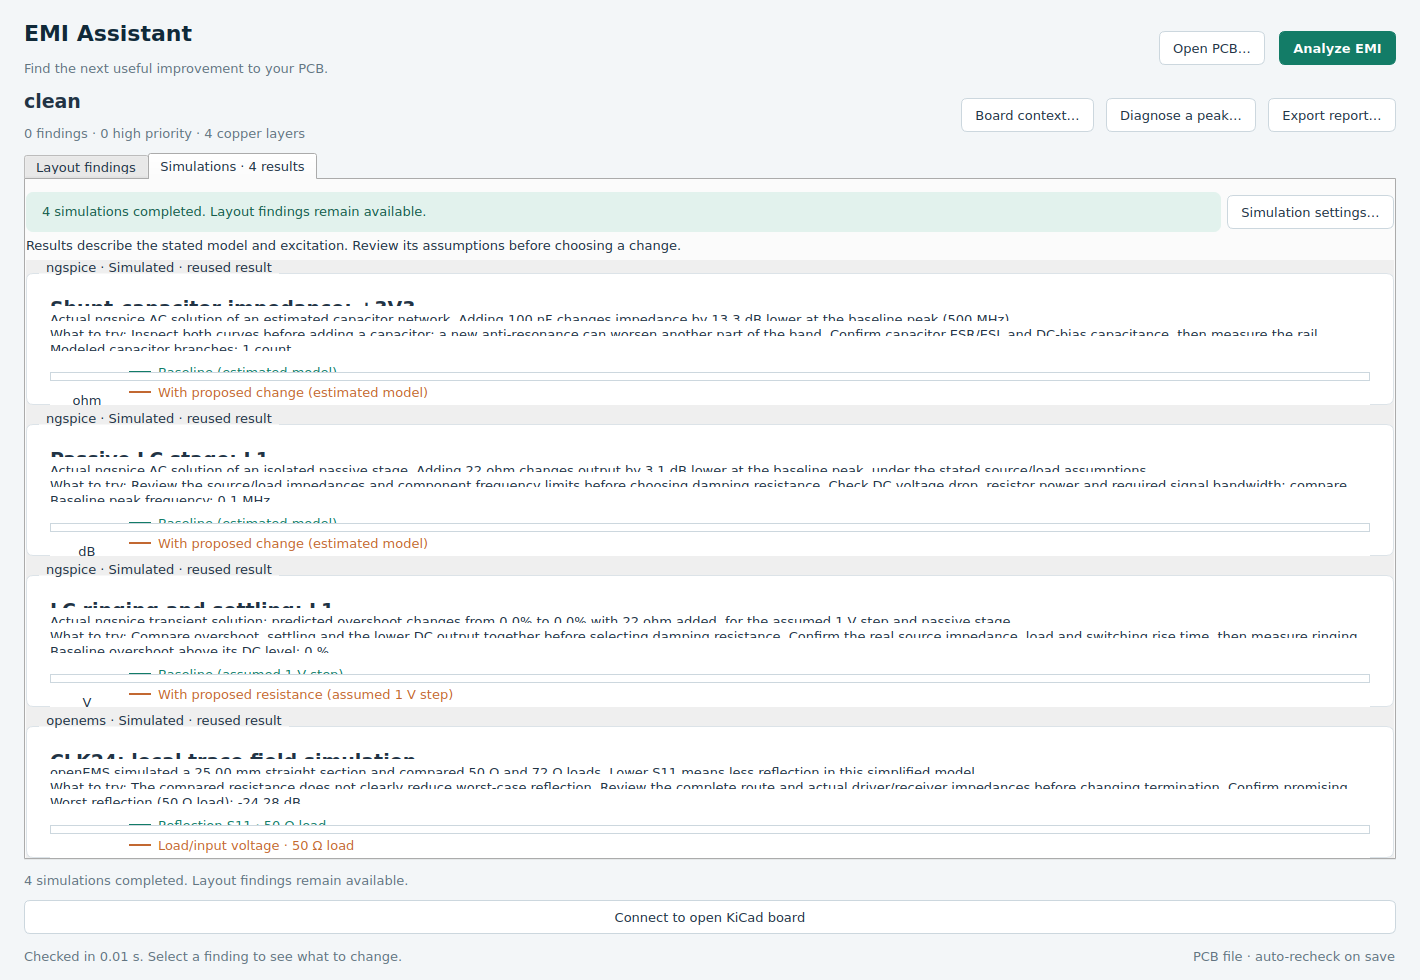
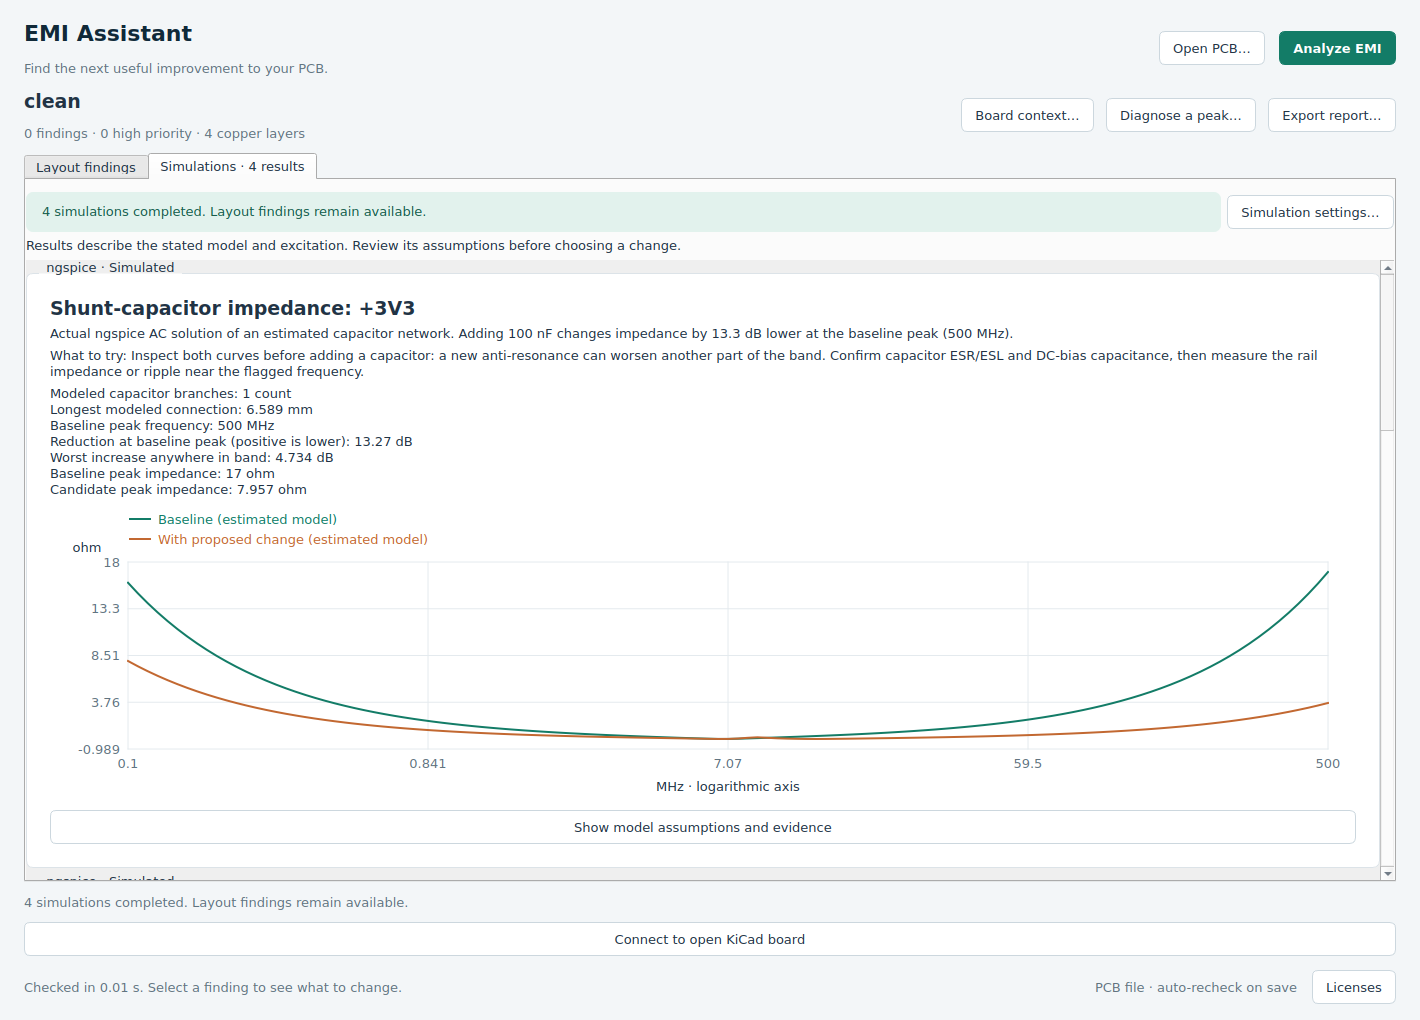
Fix clipped simulation screenshot and add repeatable Qt capture

diff --git a/tools/capture_simulation_screenshot.py b/tools/capture_simulation_screenshot.py
@@ -1,0 +1,81 @@
+"""Capture the native UI using the checked-in solver evidence (no solver run).
+
+Run from the repository root after installing the development dependencies:
+    QT_QPA_PLATFORM=offscreen python tools/capture_simulation_screenshot.py
+"""
+from __future__ import annotations
+
+import json
+from pathlib import Path
+
+from PySide6.QtCore import QTimer
+from PySide6.QtWidgets import QApplication, QLabel, QScrollArea
+
+from emi_assistant.controller import Controller
+from emi_assistant.ui import MainWindow
+from emi_assistant.ui_simulation import ResponseChart
+
+
+ROOT = Path(__file__).resolve().parents[1]
+
+
+def main() -> int:
+    app = QApplication([])
+    controller = Controller()
+    # Create the window before loading the board so its startup callback does
+    # not launch new solvers and replace the recorded validation results.
+    window = MainWindow(controller)
+    result = controller.open_board(str(ROOT / "examples/clean.kicad_pcb"))
+    results = json.loads((ROOT / "validation/simulation-summary.json").read_text())["results"]
+    window.show_result(result)
+    window._simulation_completed(results, window._simulation_generation, result)
+    window.result_tabs.setCurrentIndex(1)
+    window.resize(1420, 1020)
+    window.timer.stop()
+    window.show()
+
+    output = ROOT / "docs/screenshots/simulations.png"
+    previous_geometry = None
+    attempts = 0
+
+    def capture_when_ready():
+        nonlocal previous_geometry, attempts
+        attempts += 1
+        try:
+            pane = window.simulations
+            scroll = pane.findChild(QScrollArea)
+            cards = [pane.cards.itemAt(i).widget() for i in range(pane.cards.count() - 1)]
+            geometry = [(card.width(), card.height()) for card in cards]
+            ready = len(cards) == len(results) and geometry == previous_geometry
+            ready = ready and scroll.verticalScrollBar().maximum() > 0
+            for card in cards:
+                ready = ready and card.height() >= card.minimumSizeHint().height()
+                for child in card.findChildren(QLabel) + card.findChildren(ResponseChart):
+                    ready = ready and card.rect().contains(child.geometry())
+                    if isinstance(child, QLabel):
+                        ready = ready and child.height() >= child.heightForWidth(child.width())
+                    else:
+                        ready = ready and child.height() >= child.minimumHeight()
+            previous_geometry = geometry
+            if not ready:
+                if attempts >= 20:
+                    raise RuntimeError("Simulation cards did not settle into an unclipped layout")
+                QTimer.singleShot(50, capture_when_ready)
+                return
+            if not window.grab().save(str(output)):
+                raise RuntimeError(f"Could not save {output}")
+            print(f"Saved {output}")
+            window.close()
+            app.exit(0)
+        except Exception as error:
+            print(f"Screenshot capture failed: {error}")
+            window.close()
+            app.exit(1)
+
+    # Let show, resize, layout, and paint events run before inspecting geometry.
+    QTimer.singleShot(50, capture_when_ready)
+    return app.exec()
+
+
+if __name__ == "__main__":
+    raise SystemExit(main())

diff --git a/docs/VALIDATION.md b/docs/VALIDATION.md
@@ -63,9 +63,19 @@ These are results for the stated example model, not measured PCB emissions.
 `validation/native-evidence/` includes the actual generated solver inputs, logs
 and output data. Paths in this summary and `docs/example-simulation-report.html`
 are relative to the installed plugin directory. The simulation screenshot in
-`docs/screenshots/simulations.png` was rendered in Qt using the real cached
-results; the automatically launched background worker completed without
-blocking the window.
+`docs/screenshots/simulations.png` is rendered in Qt using the recorded results
+from `validation/simulation-summary.json`. Regenerate it after installing the
+development dependencies with:
+
+```sh
+QT_QPA_PLATFORM=offscreen python tools/capture_simulation_screenshot.py
+```
+
+The capture waits for the card layout to settle and checks that labels and
+charts fit before saving. It shows the first result at a readable size; the
+remaining results are available by scrolling. This replays the recorded solver
+evidence without launching new solvers and is not a new solver or native KiCad
+validation run.
 
 The official Windows portable downloads are ngspice 47 and openEMS 0.0.36.
 Their archive hashes and contents were verified, but those Windows binaries and
